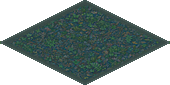
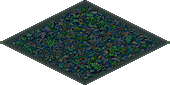
the shade ramp is visible -- art found the line that made it impossible
Art, `NOTE-FROM-ART-2026-10-06-SHADE.md`: *"Nothing in the game ever asks for a shade tile."* **They are
right, and that is why the shade has never once appeared on screen.**

`groundTileId()` built its id from `t.ter`, which is **`'grass'` on a shaded tile**, while the shade step
lived as a local inside `drawGroundTile` -- **and that function only runs when the sprite is MISSING.** So
with the pack installed, a grass tile with three mature neighbours asked for `ter_grass_v*` and drew the
identical tile as open grass. **The 2026-10-03 fix spread shade through `TILE_ART`, which is the code-art
path -- which is why the owner's "why dont i see the tiles around the remnant as being darker" came back a
second time.**

**`groundKey(c, r)` is now the single answer, and both the lookup and the drawing read it**, so they cannot
disagree -- the same reason `matureAround()` is the single step for the ground. **It also means
`ter_forest_v*` finally gets asked for on shaded grass, which today it never is, so the top step of the ramp
was invisible too.**

**AND I PUT IT IN THE WRONG SCOPE FIRST AND THE GATE CAUGHT IT** -- `groundKey is not defined` from
`drawGroundTile`, because I had added it inside the render closure while its caller is top-level. **That is
the third time tonight a block compiled perfectly in the wrong function** (`WORLD_H`, `drawDecorSprite`, and
this). It belongs beside `matureAround`, which is the rule it reads.
[…]

Changed region(s): [[0.0588, 0.0706, 0.9412, 0.9412]]

diff --git a/mistbelt/index.html b/mistbelt/index.html
@@ -1656,6 +1656,28 @@ function matureAround(c, r) {
   return n;
 }
 
+/* WHICH GROUND KEY A TILE ACTUALLY WEARS -- ONE ANSWER, ASKED BY BOTH THE LOOKUP AND THE DRAWING.
+   Art, `NOTE-FROM-ART-2026-10-06-SHADE.md`, and this is why the shade has never once been visible:
+   *"Nothing in the game ever asks for a shade tile."*
+   `groundTileId()` built its id from `t.ter`, which is `'grass'` on a shaded tile, while the shade
+   step lived as a local inside `drawGroundTile` -- and **that function only runs when the sprite is
+   MISSING.** So with the pack installed, a grass tile with three mature neighbours asked for
+   `ter_grass_v*` and drew the identical tile as open grass. **The 2026-10-03 fix spread shade through
+   `TILE_ART`, which is the code-art path -- which is why the owner's "why dont i see the tiles around
+   the remnant as being darker" came back a second time.**
+   **The rule is `matureAround()`, and now both callers read it from here, so the lookup and the drawing
+   cannot disagree.** It also means `ter_forest_v*` finally gets asked for on shaded grass, which today
+   it never is -- so the top step of the ramp was invisible too. */
+function groundKey(c, r) {
+  var t = cell(c, r);
+  if (!t || t.ter !== 'grass') return t ? t.ter : 'grass';
+  var m = matureAround(c, r);
+  return m >= SHADE_CLOSES_SEED ? 'forest'
+       : m >= SHADE_FOR_OLDGROWTH ? 'shade2'
+       : m >= 1 ? 'shade1' : 'grass';
+  }
+
+
 /* The succession rule, and the reason the game is about a forest rather than about yellowwoods.
    An old-growth tree will not take in open ground: in a mistbelt forest the Podocarpus comes up in
    the shade of a canopy that is already there, so it is one of the last trees in and never the
@@ -4070,13 +4092,10 @@ function drawGroundTile(c, r) {
      A tile that `matureAround()` counts as shaded now draws with the forest ground. The remnant is
      counted by matureAround, so its shade spreads outward from it exactly as a planted stand's does --
      one rule, one look, and the player can see the wall of shade the whole game turns on. */
-  var _ter = t.ter;
-  if (_ter === 'grass') {
-    /* THE STEP IS `matureAround()` ITSELF, so the ground cannot disagree with the rule. One
-       neighbour is the first step, two is the old-growth threshold, three is the wall. */
-    var _m = matureAround(c, r);
-    _ter = _m >= SHADE_CLOSES_SEED ? 'forest' : _m >= SHADE_FOR_OLDGROWTH ? 'shade2' : _m >= 1 ? 'shade1' : 'grass';
-  }
+  /* ASKED, NOT RE-DERIVED. This block computed the step itself, which is exactly how the lookup and the
+     drawing came to disagree -- see groundKey(). Removed rather than disabled: a dead branch that still
+     reads as live is the next person's bug. */
+  var _ter = groundKey(c, r);
   var a = TILE_ART[_ter] || TILE_ART.grass;
   var z = groundZ(c, r), p = project(c, r, z);
   var i, u, v, rr;
@@ -8026,7 +8045,9 @@ var SPR = (function () {
        GRASS recoloured (owner: *"lets make it like the grass but brown"*), so it comes in the grass's
        three variants and hashes exactly as grass does. Pinning it to `_v1` would have made the block
        the one place on the map with a visibly repeating floor. */
-    var vk = t.ter === 'water' ? 1 : (1 + Math.floor(jit(c, r, 37) * 3));
+    /* THE SHADE STEP IS RESOLVED HERE, NOT LEFT TO THE DRAWING -- see groundKey(). */
+    var key = groundKey(c, r);
+    var vk = key === 'water' ? 1 : (1 + Math.floor(jit(c, r, 37) * 3));
     /* AND IF THE VARIANT THIS TILE HASHED TO IS NOT IN THE PACK, TAKE _v1 RATHER THAN NOTHING.
        Found 2026-10-06 by the page gate, which had been reporting it for two days as *"the tile
        the game PICKS is not the tile its rule asks for: 0,37 must pick a plantation floor tile,
@@ -8038,9 +8059,9 @@ var SPR = (function () {
        which is the worst kind of missing art: close enough to pass.**
        A missing variant must not be a missing TILE. **Two painted variants are on the art brief;
        until they land, a tile that hashed to a variant the pack lacks uses the one it has.** */
-    var vid = 'ter_' + t.ter + '_v' + vk;
+    var vid = 'ter_' + key + '_v' + vk;
     if (has(vid)) return vid;
-    var v1 = 'ter_' + t.ter + '_v1';
+    var v1 = 'ter_' + key + '_v1';
     return has(v1) ? v1 : null;
   }
 
